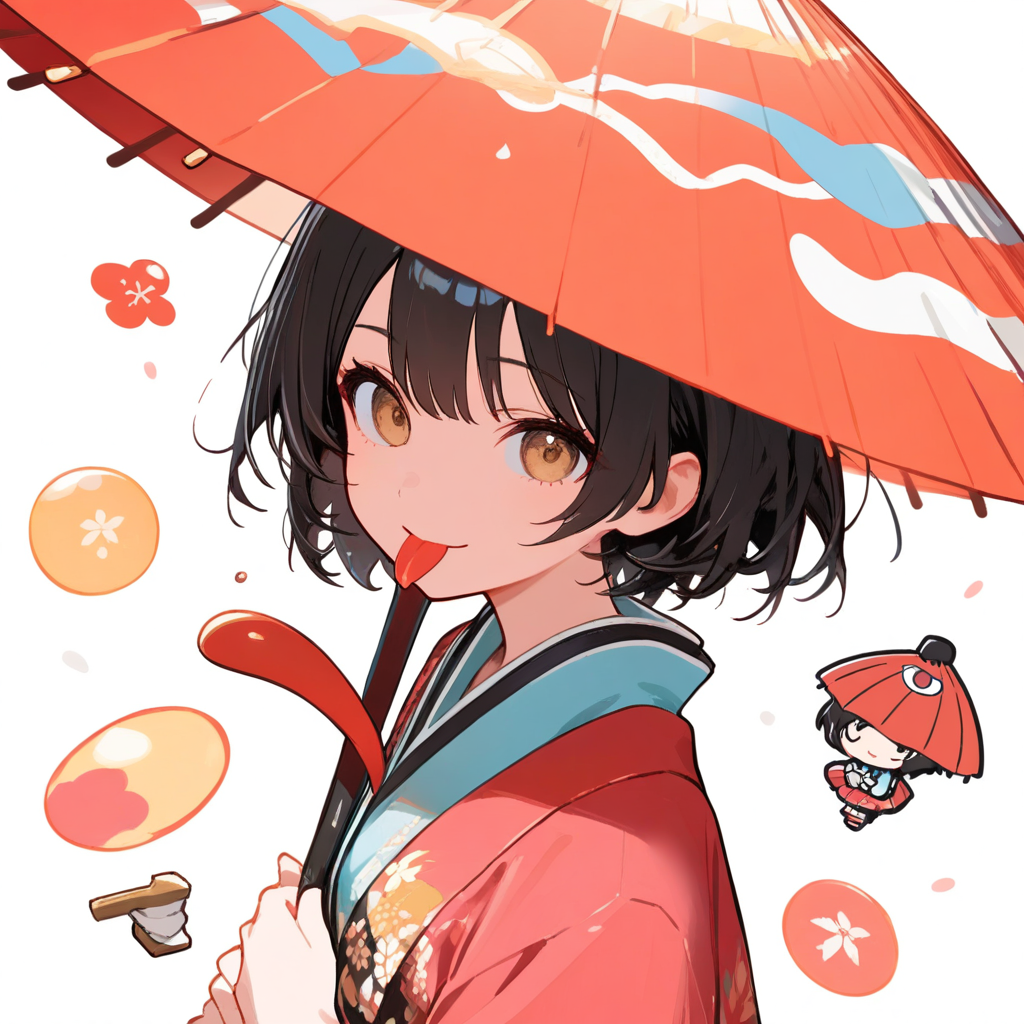
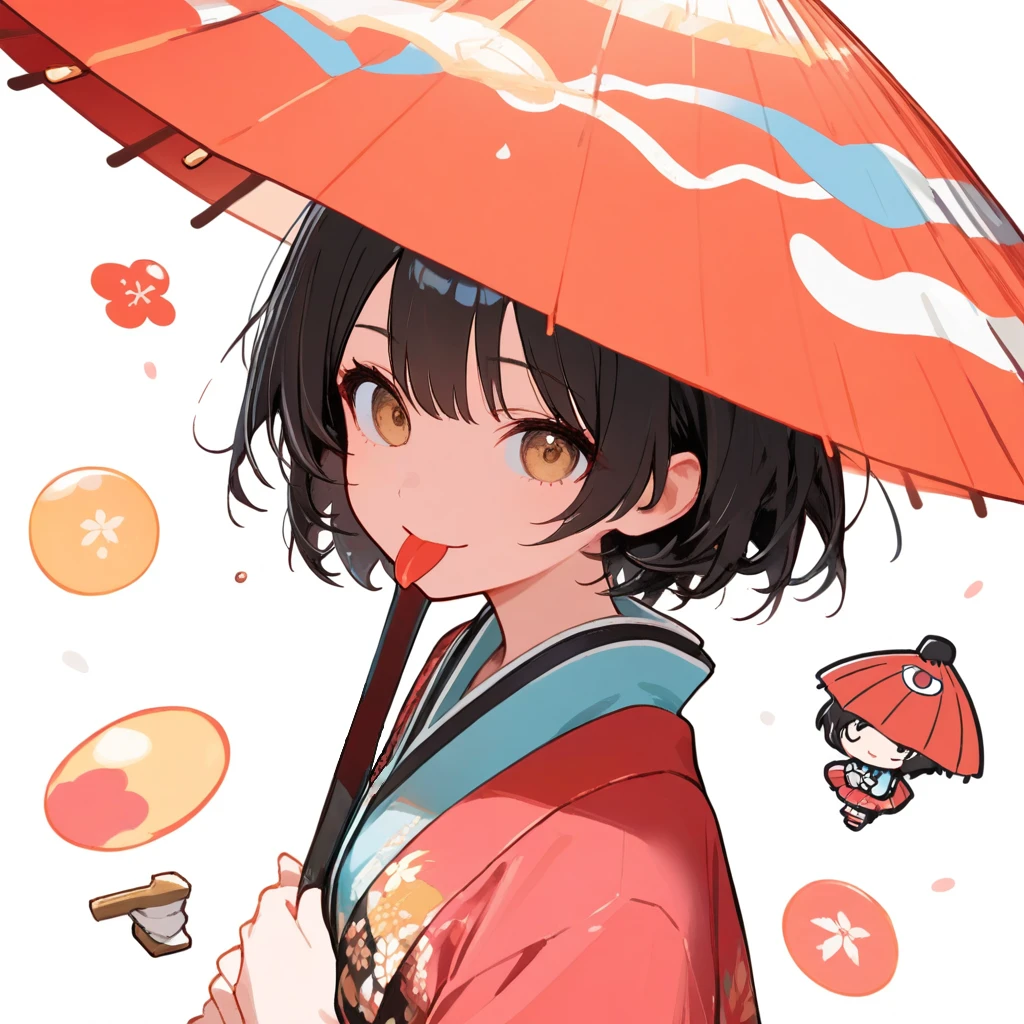
fix: 0.27.002 唐傘妖怪頭像換成手修版 (拿掉傘柄上的紅舌頭)

Changed region(s): [[0.1875, 0.5938, 0.375, 0.7812], [0.3125, 0.7812, 0.3438, 0.8125]]

diff --git a/Utils/version.py b/Utils/version.py
@@ -6,4 +6,4 @@
 
 每次 commit 都要更新這裡和 CHANGELOG.md。
 """
-VERSION = "0.27.001"
+VERSION = "0.27.002"

diff --git a/CHANGELOG.md b/CHANGELOG.md
@@ -13,11 +13,15 @@
 
 ---
 
+## 0.27.002 — 2026-11-05：唐傘妖怪頭像修圖
+- 唐傘妖怪頭像換成使用者在另一台電腦用 PhotoCraft 修過的版本：拿掉沿著傘柄垂下來的奇怪紅色「傘舌頭」，保留人物自己吐舌頭的表情。
+- 試過的做法 (沒採用)：AI 局部重繪直接畫會把舌頭再畫回來；改成 OpenCV 先抹掉、照原圖量出傘柄位置畫回、再輕度重繪，可以修乾淨，但使用者想保留吐舌頭的俏皮感，所以用手修版。
+
 ## 0.27.001 — 2026-11-05：參拜客頭像
 - 12 種參拜客 (含活動的妖精女僕、蝙蝠使魔) 的 Q 版頭像，招待畫面右側顯示 (`images/Thumbnails/guest_<種類>.png`，原圖在 `images/Original/Guests/`)。
 - 問題：第一版只用自己寫的通用標籤生圖，很多張碰巧長得像原作角色 (像文、椛、小傘、橙、米斯蒂婭、萃香)，細節又不對 (妖精女僕不是紅魔館的配色)。
   - 解法：照原作的「種族」設定重寫 prompt (萌娘百科沒有種族頁、自動抓取被擋，改用內建瀏覽器讀 Touhou Wiki 的種族圖鑑)，並把同種族知名角色的招牌特徵放進負面提示 (`guest_workflow.AVOID`)，例如河童避開荷取的藍雙馬尾、唐傘妖怪避開小傘的紫傘與異色瞳。
-- 已知瑕疵：唐傘妖怪那張嘴邊有一條奇怪的紅色「舌頭」(使用者知道，先用)。
+- 已知瑕疵：唐傘妖怪那張嘴邊有一條奇怪的紅色「舌頭」(0.27.002 已修)。
 
 ## 0.27.000 — 2026-11-05：神社廚房 (採集 → 料理 → 招待)、雜貨店、活動系統、紅霧異變
 - **🗺 採集 `/shrine explore`**：5 個地點 (人間之里、霧之湖、妖怪之山、迷途竹林、太陽花田)，每趟 20 體力、3～5 個素材，可以一次採 5 趟 (體力不夠就做到用完)；5% 機率遇到事件，好壞各半 (例如琪露諾數學不好多給 5 個冰晶、竹林迷路空手而回)。體力終於有用途了。
